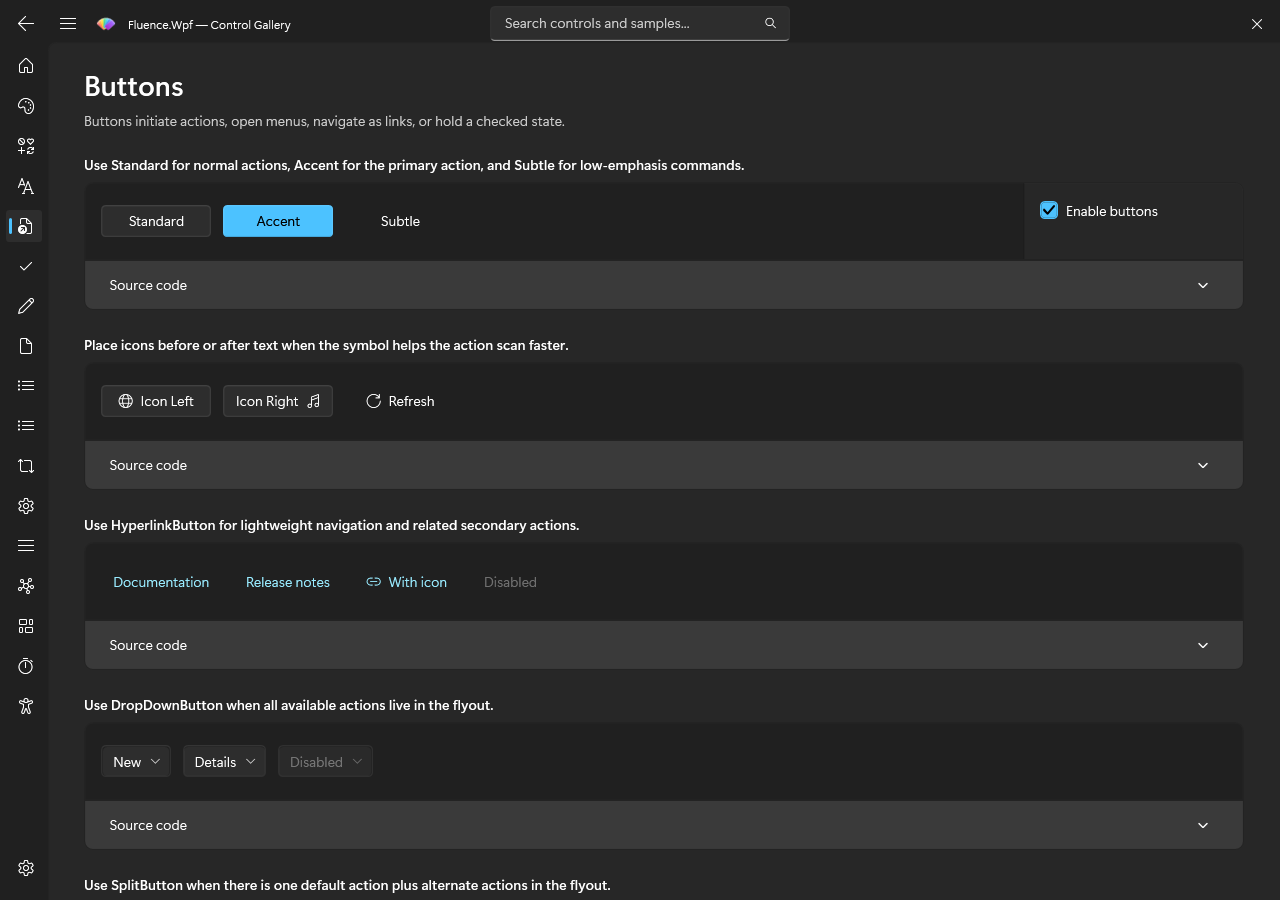
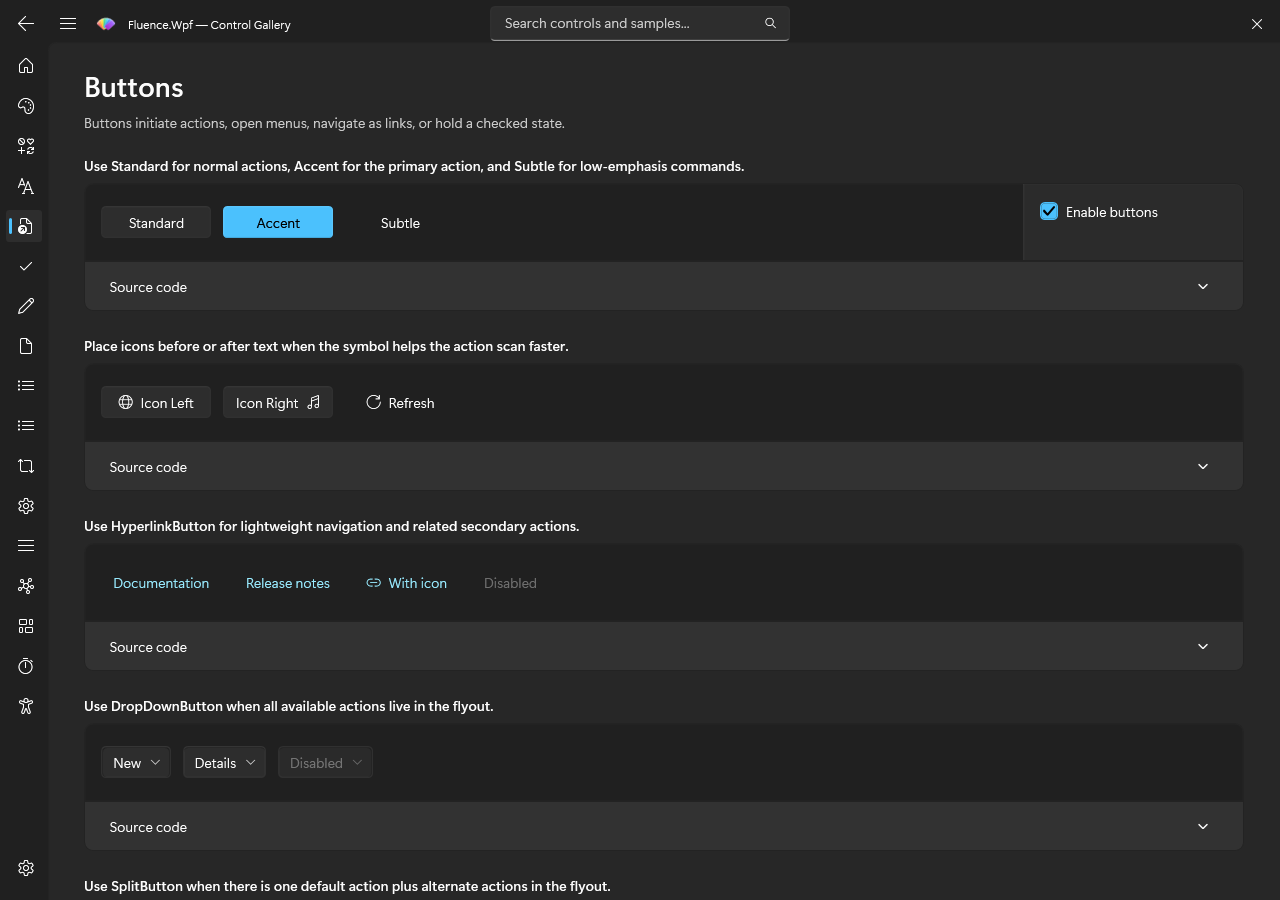
Match the WinUI Gallery sample surfaces and the Button stroke compositing.
Measured against the installed WinUI 3 Gallery 2.9.3 (Button page, 150% DPI,
Mica) rather than read from its source alone.

Demo: DemoSampleControl keeps SolidBackgroundFillColorBaseBrush for the sample
card (the Gallery ControlExampleDisplayBrush, 243 Light / 32 Dark in both apps),
moves the options rail to CardBackgroundFillColorDefaultBrush with a
DividerStrokeColorDefaultBrush divider (43 Dark, was 39), and paints the source
expander header as one CardBackgroundFillColorDefaultBrush layer over the page
(54 Dark) instead of ControlFillColorDefaultBrush over the expander's own
CardBackgroundFillColorSecondaryBrush root fill (62). The code viewer keeps its
opaque SystemFillColorSolidAttentionBackgroundBrush plate, whose value (46 Dark)
matches the Gallery's translucent content composite.

Library: Button now composites its stroke over the surface beneath it. WinUI's
DefaultButtonStyle is BackgroundSizing=InnerBorderEdge; the Fluence template
painted RestFill under OuterBorder, so the Dark stroke read 60 (sides) and 65
(top) where the Gallery reads 48 and 53. RestFill carries a brushless
BorderThickness bound to the control's, and Appearance=Accent resets it to 0
(AccentButtonStyle is OuterBorderEdge). Height (48 px) and fill (45) already
matched. ToggleButton, RepeatButton and DropDownButton nest their fill inside
the stroke border and are unchanged.

Tests assert the new roles and the RestFill inset; SPEC.md and CHANGELOG record
[…]

diff --git a/Fluence.Wpf.Demo/Pages/DemoSampleControl.xaml b/Fluence.Wpf.Demo/Pages/DemoSampleControl.xaml
@@ -8,7 +8,8 @@
         <Style x:Key="DemoSampleSourceHeaderToggleButtonStyle" TargetType="{x:Type ToggleButton}">
             <Setter Property="UseLayoutRounding" Value="True" />
             <Setter Property="Padding" Value="0" />
-            <Setter Property="Background" Value="{DynamicResource ControlFillColorDefaultBrush}" />
+            <!--  WinUI ExpanderHeaderBackground: CardBackgroundFillColorDefaultBrush, a single layer over the page.  -->
+            <Setter Property="Background" Value="{DynamicResource CardBackgroundFillColorDefaultBrush}" />
             <Setter Property="Foreground" Value="{DynamicResource TextFillColorPrimaryBrush}" />
             <Setter Property="FontFamily" Value="{DynamicResource FluentFontFamily}" />
             <Setter Property="Padding" Value="{DynamicResource DemoSampleSourceHeaderPadding}" />
@@ -118,9 +119,9 @@
             <Setter Property="Template">
                 <Setter.Value>
                     <ControlTemplate TargetType="{x:Type fluence:Expander}">
+                        <!--  No Background here: WinUI's Expander paints Background only on the content tier, so the header must not composite over a second card layer.  -->
                         <Border
                             x:Name="RootBorder"
-                            Background="{TemplateBinding Background}"
                             BorderBrush="{TemplateBinding BorderBrush}"
                             BorderThickness="{TemplateBinding BorderThickness}"
                             CornerRadius="{TemplateBinding CornerRadius}">
@@ -324,8 +325,8 @@
                     Grid.Column="1"
                     MinWidth="{DynamicResource DemoSampleRightRailMinWidth}"
                     Padding="{DynamicResource DemoSampleRightRailPadding}"
-                    Background="{DynamicResource CardBackgroundFillColorSecondaryBrush}"
-                    BorderBrush="{DynamicResource CardStrokeColorDefaultBrush}"
+                    Background="{DynamicResource CardBackgroundFillColorDefaultBrush}"
+                    BorderBrush="{DynamicResource DividerStrokeColorDefaultBrush}"
                     BorderThickness="1,0,0,0"
                     CornerRadius="0,8,0,0">
                     <ContentPresenter x:Name="RightRailContentPresenter" Content="{Binding RightRailContent, ElementName=Root}" />

diff --git a/Fluence.Wpf/Themes/Controls/Button.xaml b/Fluence.Wpf/Themes/Controls/Button.xaml
@@ -37,9 +37,18 @@
                             Background="{DynamicResource AccentFillBackdropBrush}"
                             CornerRadius="{TemplateBinding CornerRadius}"
                             Opacity="0" />
+                        <!--
+                            WinUI DefaultButtonStyle sets BackgroundSizing=InnerBorderEdge: the fill
+                            stops at the inner edge of the stroke, so the stroke composites over the
+                            surface beneath the button, not over the fill. A brushless BorderThickness
+                            insets this Border's Background by the same amount (WPF draws Background
+                            inside BorderThickness even with no BorderBrush). Appearance=Accent
+                            resets it to 0 because AccentButtonStyle uses OuterBorderEdge.
+                        -->
                         <Border
                             x:Name="RestFill"
                             Background="{TemplateBinding Background}"
+                            BorderThickness="{TemplateBinding BorderThickness}"
                             CornerRadius="{TemplateBinding CornerRadius}" />
                         <Border
                             x:Name="OuterBorder"
@@ -144,6 +153,8 @@
                             <Setter Property="Background" Value="{DynamicResource AccentFillColorDefaultBrush}" />
                             <Setter Property="Foreground" Value="{DynamicResource TextOnAccentFillColorPrimaryBrush}" />
                             <Setter TargetName="AccentFillBackdrop" Property="Opacity" Value="1" />
+                            <!--  WinUI AccentButtonStyle: BackgroundSizing=OuterBorderEdge, the accent fill runs under its stroke.  -->
+                            <Setter TargetName="RestFill" Property="BorderThickness" Value="0" />
                         </Trigger>
 
                         <Trigger Property="IsMouseOver" Value="True">

diff --git a/Fluence.Wpf.Tests/ControlTests.Button.cs b/Fluence.Wpf.Tests/ControlTests.Button.cs
@@ -85,6 +85,46 @@ namespace Fluence.Wpf.Tests
         }
 
         [Fact]
+        public Task Button_RestFill_InsetByStrokeExceptForAccentAsync()
+        {
+            // WinUI DefaultButtonStyle is BackgroundSizing=InnerBorderEdge (fill stops at the stroke's inner edge,
+            // so the stroke composites over the surface); AccentButtonStyle is OuterBorderEdge (fill under the stroke).
+            return WpfTestSta.RunOnStaAsync(static () =>
+            {
+                Application application = WpfTestSta.EnsureApplication();
+                ResourceDictionary? genericDictionary = MergeGenericDictionary(application);
+                Window window = new();
+                Controls.Button standard = new() { Width = 120, Content = "Standard" };
+                Controls.Button accent = new() { Width = 120, Content = "Accent", Appearance = ControlAppearance.Accent };
+                StackPanel panel = new();
+                _ = panel.Children.Add(standard);
+                _ = panel.Children.Add(accent);
+
+                try
+                {
+                    window.Content = panel;
+                    window.Show();
+                    WpfTestSta.DrainDispatcher(window.Dispatcher);
+                    window.UpdateLayout();
+
+                    Border standardFill = Assert.IsType<Border>(standard.Template.FindName("RestFill", standard));
+                    Border standardStroke = Assert.IsType<Border>(standard.Template.FindName("OuterBorder", standard));
+                    Assert.Equal(standardStroke.BorderThickness, standardFill.BorderThickness);
+                    Assert.Equal(new Thickness(1), standardFill.BorderThickness);
+                    Assert.Null(standardFill.BorderBrush);
+
+                    Border accentFill = Assert.IsType<Border>(accent.Template.FindName("RestFill", accent));
+                    Assert.Equal(new Thickness(0), accentFill.BorderThickness);
+                }
+                finally
+                {
+                    window.Close();
+                    _ = application.Resources.MergedDictionaries.Remove(genericDictionary);
+                }
+            });
+        }
+
+        [Fact]
         public Task Button_ExplicitToolTip_IsNotClearedByTruncationFallbackAsync()
         {
             return WpfTestSta.RunOnStaAsync(static () =>

diff --git a/Fluence.Wpf.Tests/ControlTests.BackgroundParity.cs b/Fluence.Wpf.Tests/ControlTests.BackgroundParity.cs
@@ -232,9 +232,16 @@ namespace Fluence.Wpf.Tests
                     Assert.Equal(new Thickness(0), sampleCard.Padding);
                     Assert.Equal((Thickness)sample.FindResource("DemoSampleCardPadding"), demoRegionGrid.Margin);
                     Assert.Equal(new Thickness(0), rightRail.Margin);
-                    AssertBrushColor(rightRail.Background, "CardBackgroundFillColorSecondaryBrush");
+                    AssertBrushColor(rightRail.Background, "CardBackgroundFillColorDefaultBrush");
+                    AssertBrushColor(rightRail.BorderBrush, "DividerStrokeColorDefaultBrush");
                     AssertBrushColor(sourceExpander.Background, "CardBackgroundFillColorSecondaryBrush");
                     Assert.Equal("Source code", sourceExpander.Header);
+
+                    // WinUI Gallery ControlExample: the source Expander header is one CardBackgroundFillColorDefault layer over the page.
+                    Border rootBorder = Assert.IsType<Border>(FindVisualChildByName<Border>(sourceExpander, "RootBorder"), exactMatch: false);
+                    ToggleButton header = Assert.IsType<ToggleButton>(FindVisualChildByName<ToggleButton>(sourceExpander, "PART_ToggleButton"), exactMatch: false);
+                    Assert.Null(rootBorder.Background);
+                    AssertBrushColor(header.Background, "CardBackgroundFillColorDefaultBrush");
 
                     sourceExpander.IsExpanded = true;
                     WpfTestSta.DrainDispatcher(window.Dispatcher);
@@ -559,7 +566,7 @@ namespace Fluence.Wpf.Tests
                 "SolidBackgroundFillColorBaseBrush",
                 "CardBackgroundFillColorDefaultBrush",
                 "CardBackgroundFillColorSecondaryBrush",
-                "ControlFillColorDefaultBrush",
+                "DividerStrokeColorDefaultBrush",
                 "TextFillColorSecondaryBrush",
             ];
         }

diff --git a/CHANGELOG.md b/CHANGELOG.md
@@ -28,9 +28,11 @@ The format is based on [Keep a Changelog](https://keepachangelog.com/en/1.1.0/),
 - `FluenceWindow` has one Light window base instead of three. The style painted `ApplicationBackgroundBrush` at `#FFFFFFFF`, the `BackdropType.None` fallback in code was `#FAFAFA`, and the WinUI `ApplicationPageBackgroundThemeBrush` is `SolidBackgroundFillColorBase` at `#F3F3F3`. Over pure white the `NavigationView` content layer (`#80FFFFFF`) is invisible; over `#F3F3F3` it composes to `#F9F9F9`, the WinUI result. `ApplicationBackgroundColor` in Light is now `#FFF3F3F3`, and the code fallback reads the published `ApplicationBackgroundBrush` rather than carrying its own literal, so high contrast also gets the live system window colour. Dark is unchanged at `#202020`. The Light golden and `DesignTime.Light.xaml` are regenerated.
 - The `ComboBox` dropdown surface is opaque, like every other popup in the library. It painted `AcrylicBackgroundFillColorDefaultBrush` (`#F0F9F9F9`, alpha 0.94, no blur), so a layered popup let 6 percent of whatever sat behind it show through unblurred. WinUI's `ComboBoxDropDownBackground` is an acrylic brush whose fallback colour is `#F9F9F9` / `#2C2C2C`, and WPF has no acrylic, so the dropdown now uses `SolidBackgroundFillColorTertiaryBrush`, the same opaque plate `FlyoutPresenter`, `ContextMenu`, `AutoSuggestBox`, `DatePicker`, `TimePicker`, `ToolTip`, `CommandBarFlyout` and `TeachingTip` already use. With an opaque plate the surface also gets `RenderOptions.ClearTypeHint="Enabled"` under the existing text rendering policy; the noise overlay sits behind the item text and does not affect it.
 - `FluenceWindow` now compensates for the 10 bits per channel alpha quantisation recorded in `KNOWN_ISSUES.md`. Only `Mica` was measured quantising under `DISPLAYCONFIG_GET_ADVANCED_COLOR_INFO` flags `0x4` (10 bpc, advanced color off); `Tabbed` is included by DWM material-family inference and was measured only under `0x7` (full precision), and `Acrylic` is excluded because it too was measured only under `0x7` and was never measured under `0x4`. `NativeMethods.GetDisplayColorDepth` reads the bits per color channel and the advanced color state of the window's monitor through `DisplayConfigGetDeviceInfo`, retrying the buffer-size and query pair up to three times on `ERROR_INSUFFICIENT_BUFFER`. The pure `WindowPolicy.ShouldApplyContentLayerPreBlend` and `ResolveContentLayerPreBlend` prefer WinUI's own canonical `LayerOnMicaBaseAltFillColorTertiary` token (`#F9F9F9` Light, `#2C2C2C` Dark) and fall back to a computed straight-alpha composite only when that token is not defined. `FluenceWindow.ApplyBackdrop` sets or removes the window scoped `NavigationViewContentBackgroundBrush` resource accordingly, tracking ownership so a consumer's own value for that key is never overwritten or cleared, and re-runs on `WM_DISPLAYCHANGE`, `OnDpiChanged`, and `WM_WINDOWPOSCHANGED` (an equal-DPI monitor move, which raises neither of the other two) so a monitor move or a display setting change is always picked up. An 8 bpc display, high contrast, `BackdropType.None`, or advanced color enabled on a 10 bpc display all keep the canonical translucent token untouched.
+- `Button` composites its stroke over the surface beneath it, not over its own fill. WinUI's `DefaultButtonStyle` sets `BackgroundSizing="InnerBorderEdge"`, so the fill stops at the inner edge of the stroke; the Fluence template painted `RestFill` under `OuterBorder`, which brightened the stroke in Dark by the fill's alpha. Measured against the WinUI 3 Gallery at 150% DPI on the same `#202020` plate: both buttons are 48 px tall with a 45 fill, but the Fluence sides and bottom read 60 and the top 65 where the Gallery reads 48 and 53. `RestFill` now carries a brushless `BorderThickness` bound to the control's, which insets the fill by the stroke width, and `Appearance="Accent"` resets it to 0 because `AccentButtonStyle` uses `OuterBorderEdge`. `ToggleButton`, `RepeatButton` and `DropDownButton` already nest their fill inside the stroke border and are unchanged.
 
 ### Changed
 
+- Demo: `DemoSampleControl` surfaces are measured against the installed WinUI 3 Gallery (2.9.3, Button page, 150% DPI) rather than read from its source alone. The sample card keeps `SolidBackgroundFillColorBaseBrush` (the Gallery `ControlExampleDisplayBrush`, 243 Light / 32 Dark on screen in both apps); the options rail moves from `CardBackgroundFillColorSecondaryBrush` to `CardBackgroundFillColorDefaultBrush` with a `DividerStrokeColorDefaultBrush` divider (Gallery 43 Dark, Fluence was 39); and the source expander header is one `CardBackgroundFillColorDefaultBrush` layer over the page (Gallery 54 Dark) instead of `ControlFillColorDefaultBrush` composited over the expander's own `CardBackgroundFillColorSecondaryBrush` root fill (62). Demo only; no library change.
 - `FluenceWindow`'s outer border goes back to DWM on Windows 11. WinUI draws no template border at all on a top-level surface, and on Windows 11 DWM already draws and colors the 1 px outer border itself, so a WPF template border stacked on top of it painted a second, uncolored edge; wpfui's `ClientAreaBorder.cs` and iNKORE's `WindowHelper.ShouldDisplayManualBorder` corroborate the same split, both drawing 0 dp on Windows 11 and 1 dp only on Windows 10. Measured this session on a Windows 11 host at 150% DPI in Light, from a screen capture of the window's left edge (Dark and High Contrast were not captured): before the change, the active window showed 3 physical px of accent (DWM's 2 px colored border plus the template's own stroke), and the inactive window showed DWM's grey border followed by a 1 px pale `#EBEBEB` line before the content; after the change, both states show DWM's border running straight into the content with no extra pixel. `WindowPolicy.BuildFramePlan` now derives `FramePlan.TemplateBorderThickness` from `WindowCapabilities.SupportsBorderColor`: 0 dp where DWM can be colored, 1 dp where it cannot, and the implicit style's design-time default (and the value shown before the first `ApplyFrame` pass) moves from 2 to 1 to match the Windows 10 value. The maximized 0 dp trigger in `Themes/Controls/FluenceWindow.xaml` is unchanged. `ApplyFrame` ran on every activation, deactivation, and state change and always overwrote whatever value was already on `BorderBrush`, so the style's own `SurfaceStrokeColorDefaultBrush` setter was dead on any window that had ever been shown; the inactive template border brush key now resolves to that same `SurfaceStrokeColorDefaultBrush` key instead of `CardStrokeColorDefaultSolidBrush`, matching WinUI's use of that token for a top-level surface edge and bringing the style's own setter and the code path into agreement. `FluenceWindow.ApplyFrame` now writes `BorderBrush` and `BorderThickness` through `SetCurrentValue` instead of a plain assignment, so the declarative base value survives underneath and a consumer's own style setter or binding is overridden only while the shell manages the realised window. The Windows 10 1 dp `SurfaceStrokeColorDefaultBrush` edge is translucent and composites over the HWND redirection surface rather than painting an opaque grey; this is a deliberate tradeoff to keep reusing the canonical stroke token instead of adding a second, opaque, theme-aware fallback colour just for this edge. The template root also stops rounding itself. It carried `OverlayCornerRadius` (8 DIP) although DWM already masks the window at its own radius, and WinUI paints no rounded root of its own. Measured at 150% DPI with the default rounding, the corner pixels are byte-identical with and without the template radius (DWM scales its radius with DPI, so the two arcs coincided), so the change is parity, not a visible fix there; it does remove the rounded outline the template drew on a square window on Windows 10 and under `CornerPreference.DoNotRound`. DWM now owns the corners as well as the edge, and the maximized trigger only zeroes the Windows 10 border thickness.
 - Dead frame and backdrop plumbing is removed. `FramePlan.TemplateBorderThickness` and `BackdropPlan.UseTransparentBackground` were computed on every plan and read by nothing at the time; `FluenceWindow.ApplyFrame` used only the brush key and DWM colour, and `ApplyBackdrop` used `BackgroundColor`. (`TemplateBorderThickness` gained a real consumer again in the border fix above, which reintroduced it once `ApplyFrame` needed a template thickness to write; the two changes do not conflict.) `WindowPolicy.BuildFramePlan` drops its `WindowState` parameter with them, since the maximized 0 dp border comes from the template trigger in `Themes/Controls/FluenceWindow.xaml`. `NativeMethods.ExtendFrameIntoClientArea` and its `DwmExtendFrameIntoClientArea` CsWin32 request had no callers and are gone; `WindowChrome.GlassFrameThickness = -1` is what extends the frame. Tests asserting `UseTransparentBackground` now assert `BackgroundColor` directly, and `BuildFramePlan_Maximized_TemplateBorderIsZero`, which asserted only the removed property, is deleted. `KNOWN_ISSUES.md` gains the measurement behind the `NavigationView` content canvas reading darker than the pane over Mica on a 10 bits per channel display; the library keeps the canonical WinUI tokens.
 

diff --git a/.claude/skills/demo-sample-page/SPEC.md b/.claude/skills/demo-sample-page/SPEC.md
@@ -27,13 +27,13 @@ Demo sample surfaces use the native Fluence brush resources and control defaults
 | Layer                     | Brush resource                                                                                                |
 | ------------------------- | ------------------------------------------------------------------------------------------------------------- |
 | Page background           | Leave to `NavigationView` / `SmoothScrollViewer` control defaults unless a specific page has no host surface. |
-| Sample card surface       | `CardBackgroundFillColorDefaultBrush`                                                                         |
-| Right rail / options pane | `CardBackgroundFillColorSecondaryBrush`                                                                       |
-| Expander header           | `ControlFillColorDefaultBrush`                                                                                |
-| Expander expanded content | `SolidBackgroundFillColorBaseBrush`                                                                           |
+| Sample card surface       | `SolidBackgroundFillColorBaseBrush` (WinUI Gallery `ControlExampleDisplayBrush`; opaque, so samples composite at token brightness) |
+| Right rail / options pane | `CardBackgroundFillColorDefaultBrush` with a `DividerStrokeColorDefaultBrush` left divider (Gallery `OptionsPresenter`) |
+| Expander header           | `CardBackgroundFillColorDefaultBrush`, one layer over the page (WinUI `ExpanderHeaderBackground`); the root paints no fill under it |
+| Expander expanded content | `CardBackgroundFillColorSecondaryBrush` as the Expander `Background`; the code viewer inside sits on the opaque `SystemFillColorSolidAttentionBackgroundBrush` plate |
 | Secondary labels          | `TextFillColorSecondaryBrush`                                                                                 |
 
-The page background has no dedicated brush (it uses the host control defaults), so the other five rows are the surface-token brushes that the Definition of done checks resolve across themes.
+The page background has no dedicated brush (it uses the host control defaults), so the other five rows are the surface-token brushes that the Definition of done checks resolve across themes. The roles were measured against the installed WinUI 3 Gallery (2.9.3) on the Button page: plate 243 Light / 32 Dark, options rail 251 / 43, header 54 Dark over a 43 page, all reproduced by the brushes above.
 
 Use `DynamicResource` for these role brushes so theme, accent, and high-contrast changes flow through the standard `ApplicationThemeManager` slots.
 
